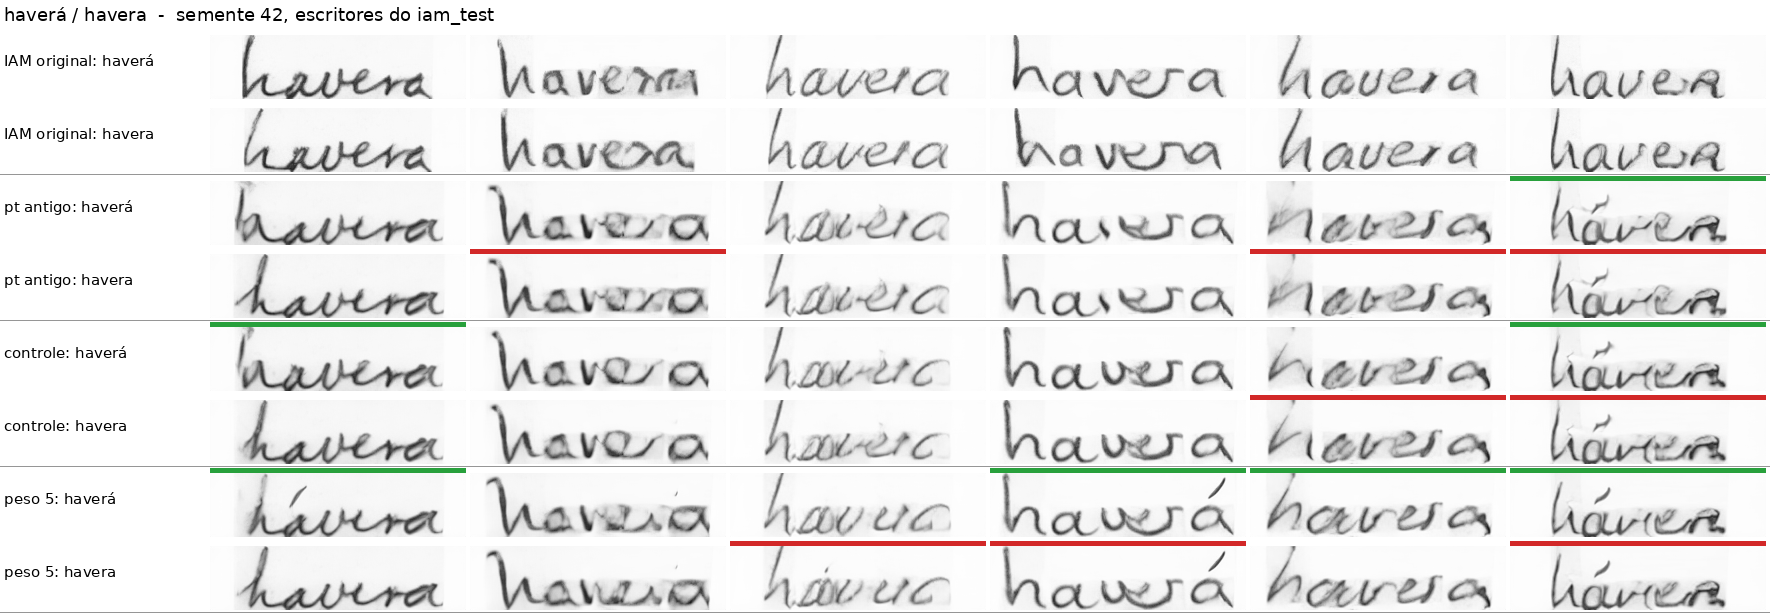
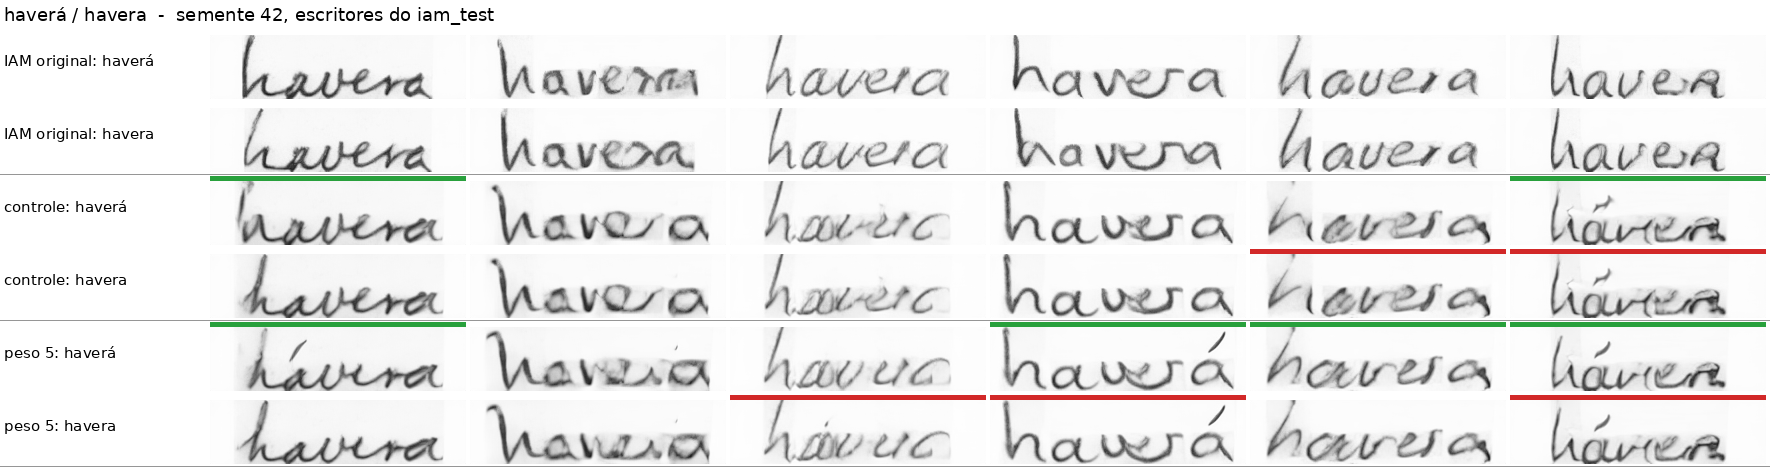
resultados/: fase 4 so com IAM original, controle e peso 5

diff --git a/resultados/README.md b/resultados/README.md
@@ -56,18 +56,23 @@ em si. Ver [docs/07](../docs/07_experimentos_com_acentos.md).
 O acento ocupa 2% da imagem no espaço latente. Cobrar 5 vezes mais o erro
 nessa região aumentou o acento pedido e também o indevido.
 
-| modelo, 16 épocas | marca na acentuada | marca no esqueleto | marca sem acento | diferença pareada | CER sem acento pedido |
+| modelo, 16 épocas | marca na acentuada | marca no esqueleto | marca sem acento | diferença pareada | CER sem acento |
 |---|---|---|---|---|---|
-| IAM original | 6% | 5% | 5% | +1 | 0,195 |
-| base sintética, peso 1 | 42% | 26% | 26% | +16 | |
-| base sintética, peso 5 | 57% | 34% | 32% | +23 | 0,312 |
+| IAM original | 6% | 5% | 5% | +1 | 0,22 |
+| controle, sem peso | 46% | 30% | 25% | +16 | 0,32 |
+| peso 5 | 57% | 34% | 32% | +23 | 0,32 |
+
+O controle e o peso 5 são o mesmo treino na base sintética, e diferem só no
+peso. Por isso a diferença entre eles, +7 pontos na diferença pareada (IC95 de
++3 a +11), é atribuída ao peso. O CER desta tabela é o das 20 palavras sem
+acento.
 
 O esqueleto é a mesma palavra pedida sem o acento. A diferença pareada é a
 marca na acentuada menos a marca no esqueleto, com o mesmo escritor e a mesma
 semente, e mede quanto do acento vem do texto.
 
-Na figura, "haverá" e "havera" no modelo original e nos primeiros fine-tunes.
-Barra verde é marca detectada na acentuada e vermelha no esqueleto.
+Na figura, "haverá" e "havera" no modelo original, no controle sem peso e no
+peso 5. Barra verde é marca detectada na acentuada e vermelha no esqueleto.
 
 ![Peso 5](figuras/03_peso5_havera.png)
 
